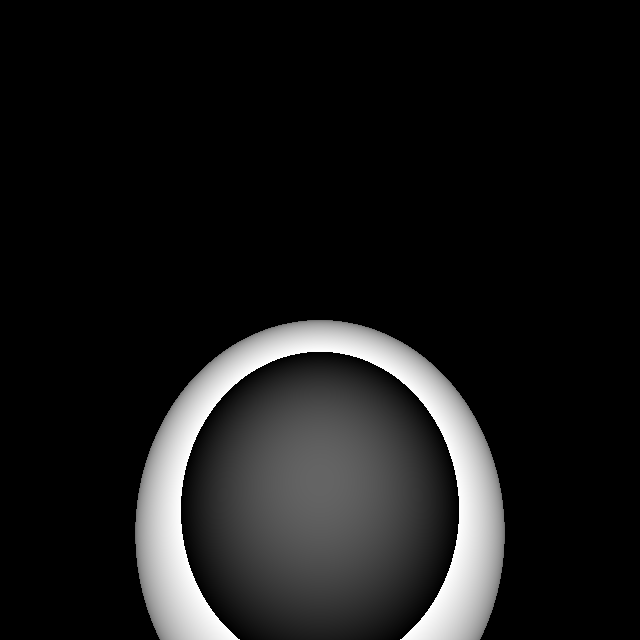
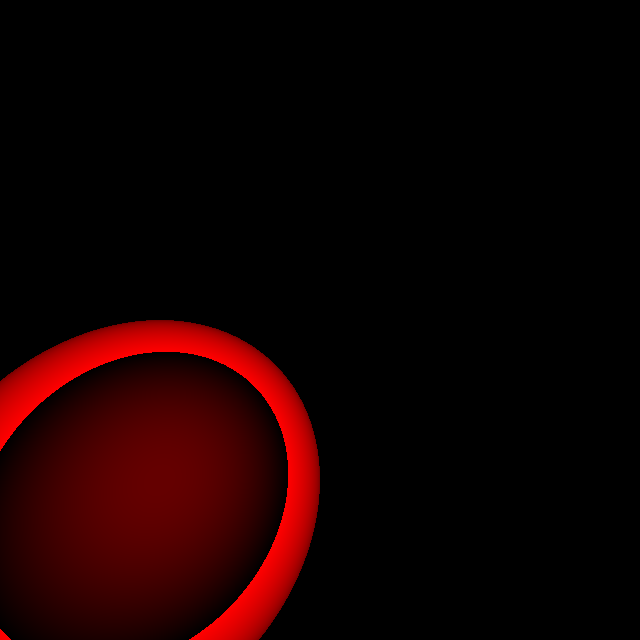
camera coordinate flip in main.cpp and camera.cpp taken care of

diff --git a/main.cpp b/main.cpp
@@ -30,8 +30,8 @@ int main(){
 
     
 
-    glm::dvec3 snowColor = glm::dvec3(1,1,1);
-    glm::dvec3 location = glm::dvec3(3*R,2*R,-2*R);
+    glm::dvec3 snowColor = glm::dvec3(1,0,0);
+    glm::dvec3 location = glm::dvec3(1*R,1*R,-2*R);
     glm::dvec3 snowSpecColor = glm::dvec3(0,0,0);
     double snowSpecCoeff = 0;
 
@@ -61,7 +61,7 @@ int main(){
     
     for(int i = 0;i<height;i++){
         for(int j=0;j<width;j++){
-            glm::dvec3 rayDir = glm::normalize(camera.pixelToWorld( (double)i,(double)j) - camera.location);
+            glm::dvec3 rayDir = glm::normalize(camera.pixelToWorld( (double)j,(double)i) - camera.location);
             Ray ray = Ray(camera.location,rayDir,1);
             glm::dvec3 colorObtained = rayTrace(ray,objects,lightSources,1,1,glm::dvec3(0,0,0));
             // image[ i*width*3 + j*3 ]=(int)colorObtained[0]*255;
@@ -79,12 +79,6 @@ int main(){
         for(int j=0;j<height;j++){
             if (!(i==0 && j==0))myfile<<",";
             myfile<<image[i][j][0]<<","<<image[i][j][1]<<","<<image[i][j][2];
-
-            if(i>0 && j>0){
-                if(image[i][j-1][0]>0.5 && j<320 && image[i][j][0]<0.5){
-                    cout<<i<<" "<<j<<endl;
-                }
-            }
             
         }
     }

diff --git a/Camera.cpp b/Camera.cpp
@@ -20,8 +20,8 @@ glm::dvec3 Camera::cameraToWorld(glm::dvec3 input){
         }
     }
 
-    for(int i=0;i<3;i++)output[i] += location[i];
-
+    output = output + location;
+    
 
     return output;
 }
@@ -31,6 +31,7 @@ glm::dvec3 Camera::pixelToCamera(double px,double py){
     
     double pixelCamerax = (2* (px+0.5)/width - 1)  * aspectRatio * tan(fov/2);
     double pixelCameray = (2* (py + 0.5)/height - 1) * tan(fov/2);
+    pixelCameray = -pixelCameray;
 
     return glm::dvec3( pixelCamerax,pixelCameray,-1);
 

diff --git a/loadImage.py b/loadImage.py
@@ -9,6 +9,12 @@ data = data[0]
 
 data = data.reshape(640,640,3)
 
+# for i in range (320):
+#     for j in range (100):
+#         data[i][j][0]=255
+#         data[i][j][1]=0
+#         data[i][j][2]=0
+
 from PIL import Image 
 image = Image.fromarray(data,'RGB')
 image.save("ok.png")
